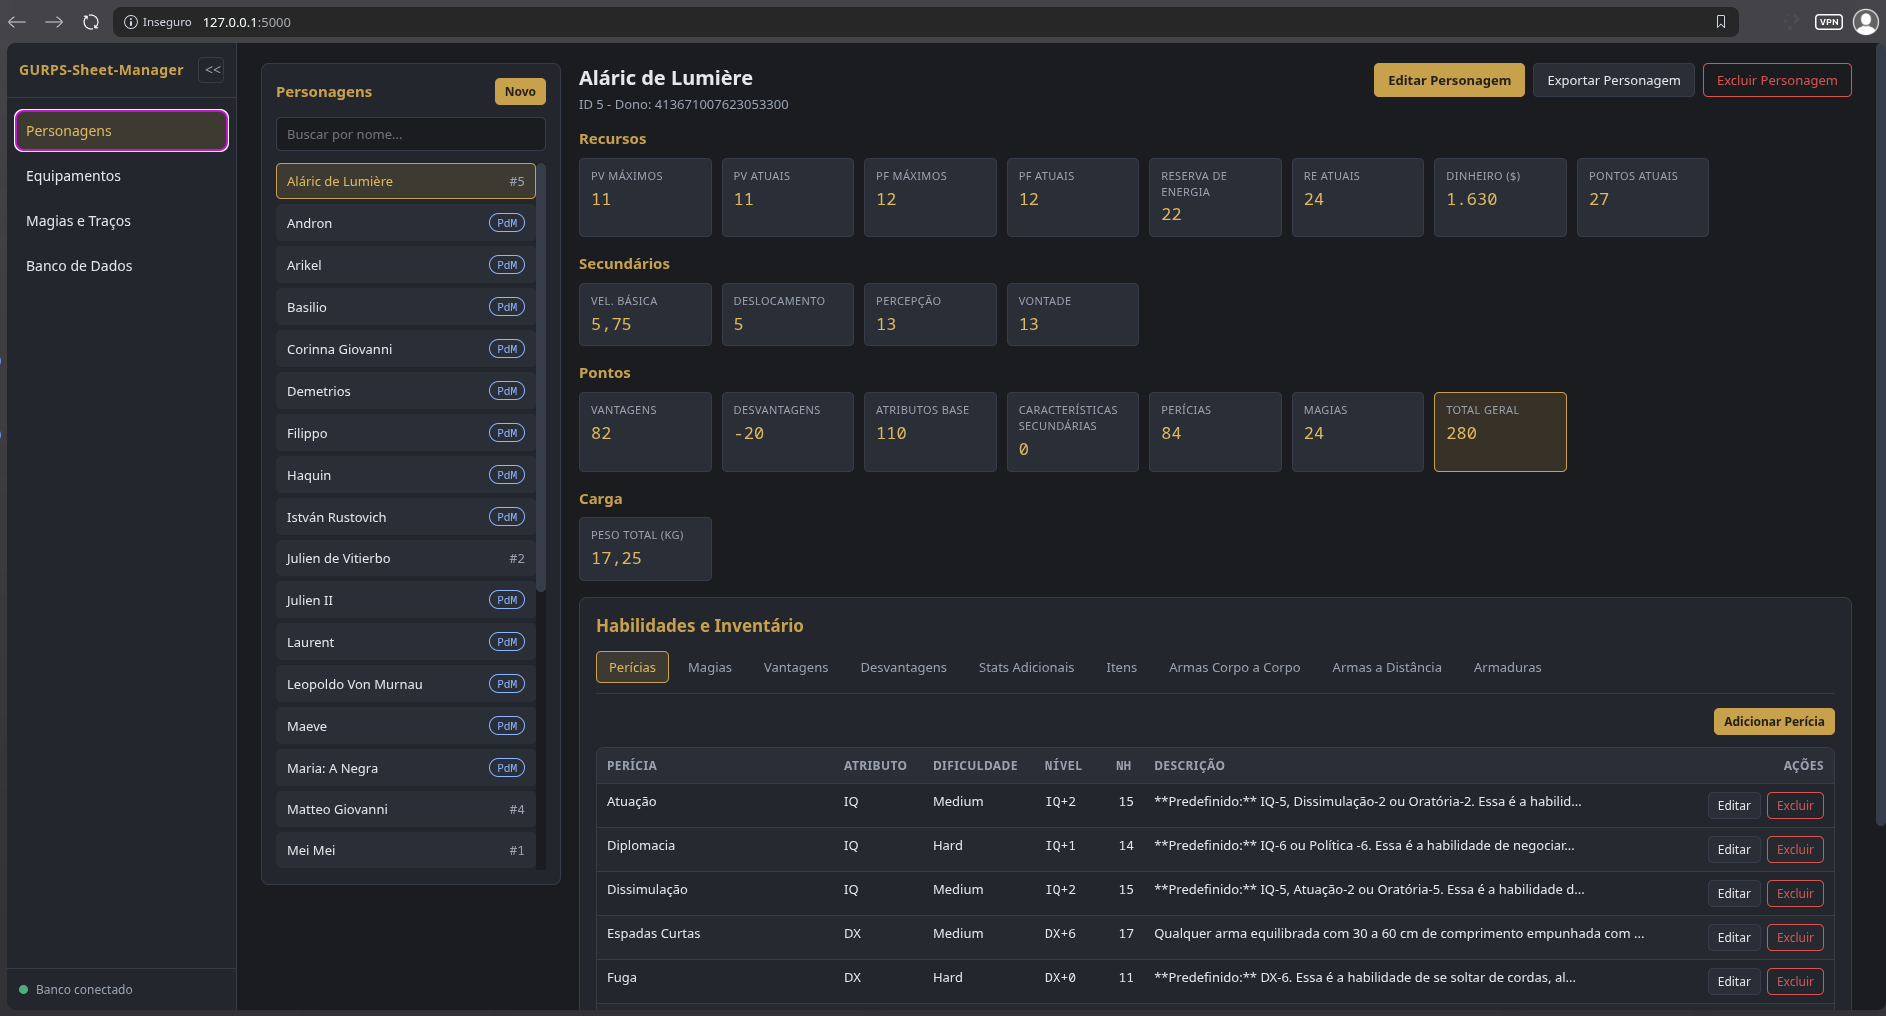
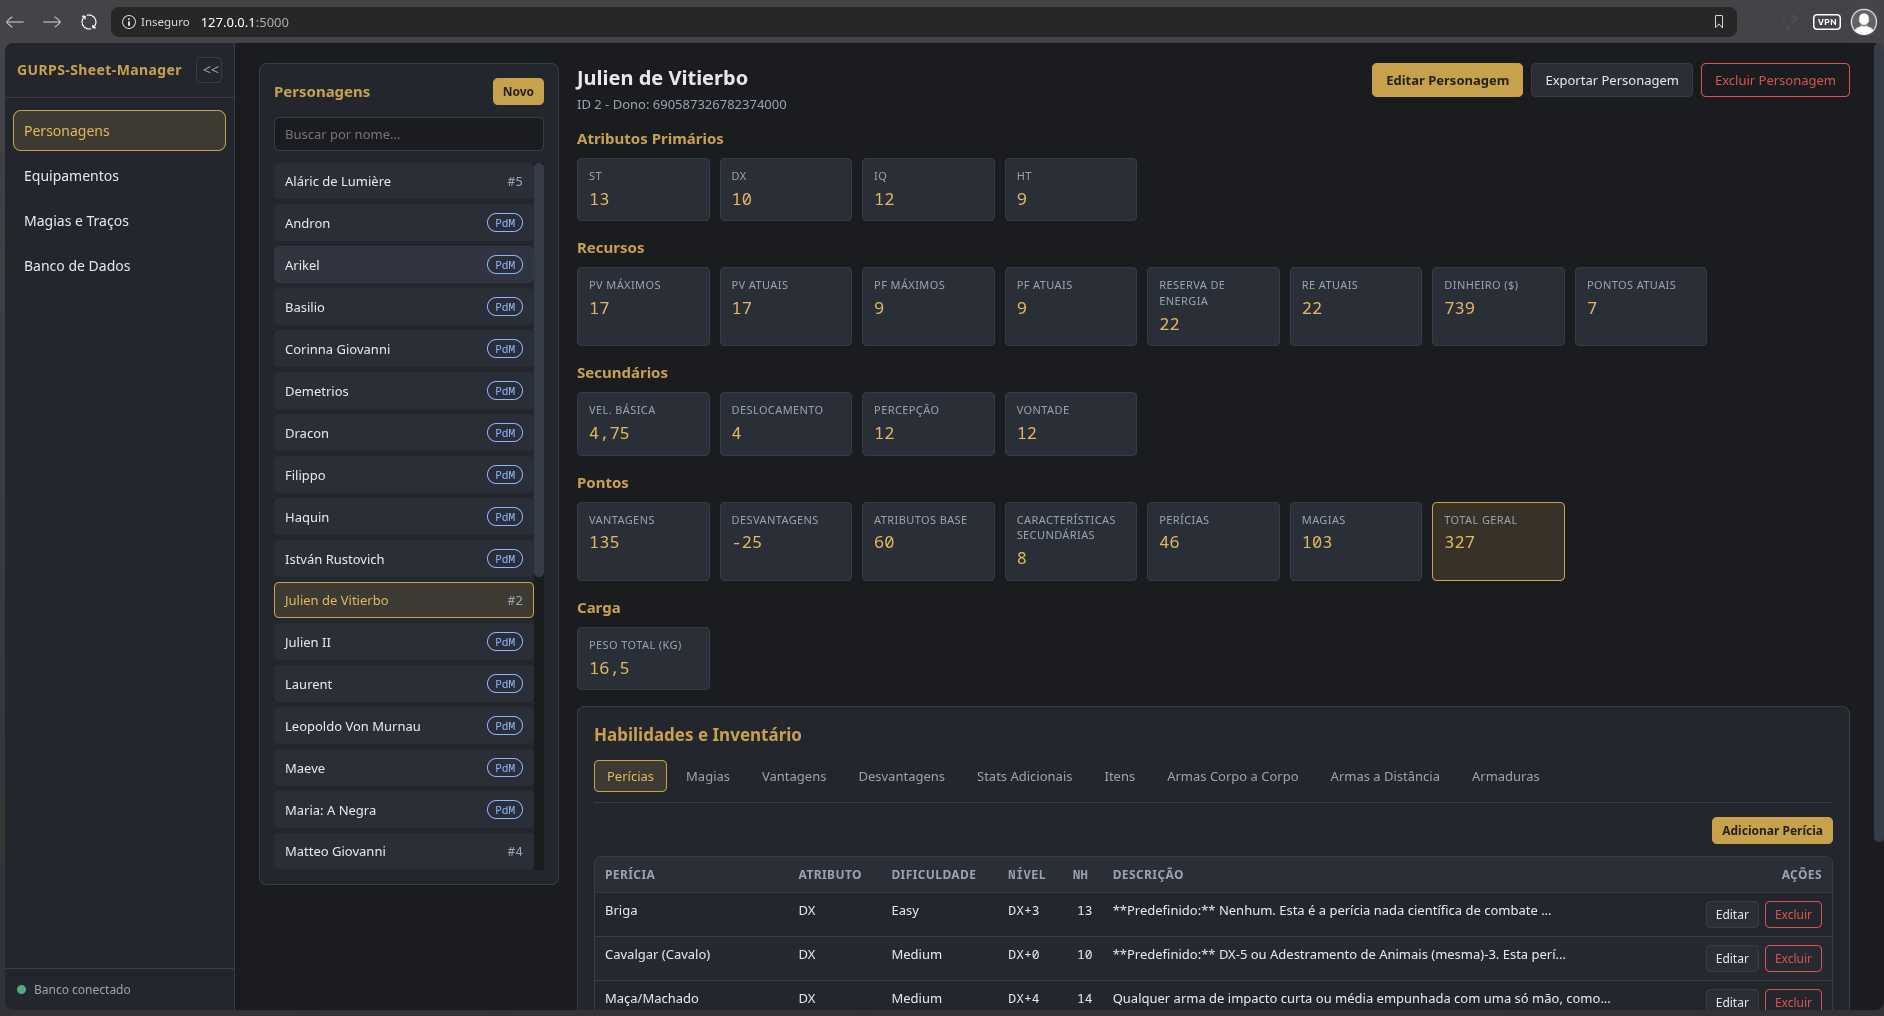
feat(characters): show primary attributes on character sheet
Display ST, DX, IQ and HT in a dedicated section above resources and update the character screen screenshot.

diff --git a/static/js/tabs/characters.js b/static/js/tabs/characters.js
@@ -510,6 +510,13 @@ function renderDetail() {
         ]),
     ]);
 
+    const primary = statSection('Atributos Primários', [
+        ['ST', character.st],
+        ['DX', character.dx],
+        ['IQ', character.iq],
+        ['HT', character.ht],
+    ]);
+
     const resources = statSection('Recursos', [
         ['PV Máximos', derived.pv_max],
         ['PV Atuais', character.current_pv],
@@ -552,7 +559,7 @@ function renderDetail() {
     subnav.setActive(state.activeRelation);
     relationPanels[state.activeRelation].classList.add('active');
 
-    mount.append(header, resources, secondary, pointsSection(details.points), load, el('div', { class: 'panel' }, [
+    mount.append(header, primary, resources, secondary, pointsSection(details.points), load, el('div', { class: 'panel' }, [
         el('div', { class: 'panel-title' }, [
             el('h2', { text: 'Habilidades e Inventário' }),
         ]),
